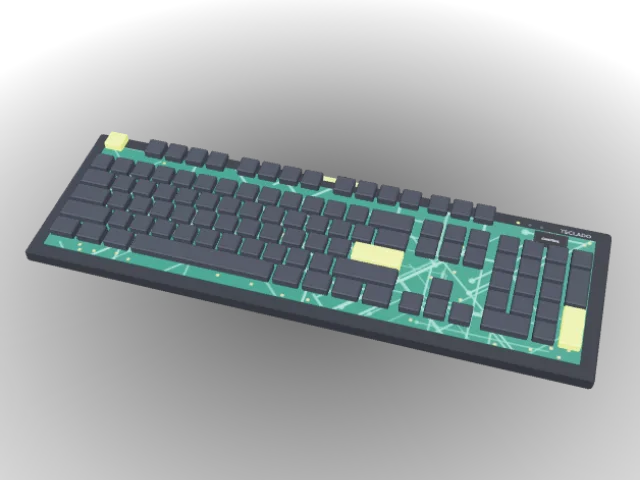
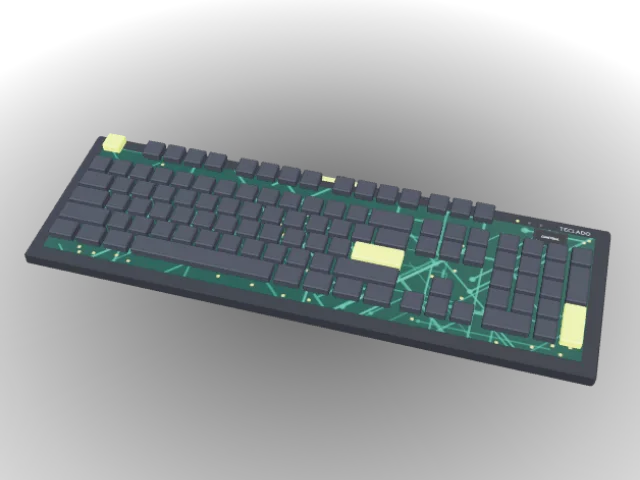
Actualiza Anatomía del ordenador: fotos de la portada con los altavoces
Claude-Session: https://claude.ai/code/session_01Unrf4NQj8Jj8JzKo1yTFzd

Changed region(s): [[0.0312, 0.2812, 0.9688, 0.8125], [0.3438, 0.4688, 0.375, 0.5]]

diff --git a/materiales/anatomia-del-ordenador/js/modelos/perifericos.js b/materiales/anatomia-del-ordenador/js/modelos/perifericos.js
@@ -185,7 +185,7 @@ export function teclado() {
   m.pon(en(teclas, 0, 1.78, 0), { id: "teclas", abre: [0, 4.4, 0] });
 
   // Debajo de las teclas: una lámina con un contacto para cada una, y el chip que las lee.
-  const membrana = circuito(W - 2.4, D - 2.2, { color: "#1d6b5a", pista: "#58c9a6", semilla: 8, grosor: 0.06, densidad: 1.3 });
+  const membrana = circuito(W - 2.4, D - 2.2, { color: "#123d35", pista: "#2f8f76", semilla: 8, grosor: 0.06, densidad: 1.3 });
   membrana.rotation.x = pendiente;
   m.pon(en(membrana, 0, 1.36, 0), { id: "membrana", abre: [0, 2, 0] });
   const lector = chip(2.6, 1.5, "CONTROL", { alto: 0.07 });
